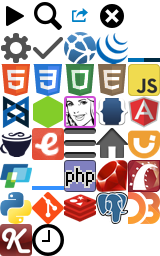
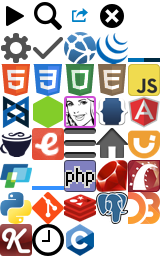
Add C documentation

Changed region(s): [[0.4062, 0.875, 0.5938, 1.0]]

diff --git a/assets/stylesheets/pages/_c.scss b/assets/stylesheets/pages/_c.scss
@@ -1,0 +1,22 @@
+._c {
+  > h2, > h3 { @extend %block-heading; }
+  > h4 { @extend %block-label, %label-blue; }
+  > p > code { @extend %label; }
+
+  .t-dcl-begin pre {
+    margin: 0;
+    padding: 0;
+    line-height: inherit;
+    background: none;
+    border: 0;
+    box-shadow: none;
+  }
+
+  .t-lines > span { display: block; } // numeric/fenv, string/byte, etc.
+
+  .t-spar { // language/switch, language/for, etc.
+    font-style: italic;
+    color: $textColorLight;
+  }
+  .t-sdsc-nopad dl, .t-sdsc-nopad dd { margin: 0; }
+}

diff --git a/assets/stylesheets/global/_icons.scss b/assets/stylesheets/global/_icons.scss
@@ -48,3 +48,4 @@
 ._icon-d3:before            { background-position: -4rem -6rem; }
 ._icon-knockout:before      { background-position: 0 -7rem; }
 ._icon-moment:before        { background-position: -1rem -7rem; }
+._icon-c:before             { background-position: -2rem -7rem; }

diff --git a/assets/stylesheets/application.css.scss b/assets/stylesheets/application.css.scss
@@ -28,6 +28,7 @@
         'components/mobile';
 
 @import 'pages/angular',
+        'pages/c',
         'pages/coffeescript',
         'pages/d3',
         'pages/ember',

diff --git a/lib/docs/filters/c/entries.rb b/lib/docs/filters/c/entries.rb
@@ -1,0 +1,44 @@
+module Docs
+  class C
+    class EntriesFilter < Docs::EntriesFilter
+      ADDITIONAL_NAMES = {
+        'Conditional inclusion' => %w(if else elif ifdef ifndef endif).map { |s| "##{s} directive" },
+        'Function specifiers' => ['inline specifier', '_Noreturn specifier'] }
+
+      REPLACE_NAMES = {
+        'Error directive' => '#error directive',
+        'Filename and line information' => '#line directive',
+        'Implementation defined behavior control' => '#pragma directive',
+        'Replacing text macros' => '#define directive',
+        'Source file inclusion' => '#include directive',
+        'Warning directive' => '#warning directive' }
+
+      def get_name
+        name = at_css('#firstHeading').content.strip
+        name.sub! 'C keywords: ', ''
+        name.sub! %r{\s\(.+\)}, ''
+        name = name.split(',').first
+        REPLACE_NAMES[name] || name
+      end
+
+      def get_type
+        if type = at_css('.t-navbar > div:nth-child(4) > :first-child').try(:content)
+          type.strip!
+          type.sub! ' library', ''
+          type.sub! ' utilities', ''
+          type
+        end
+      end
+
+      def additional_entries
+        names = at_css('#firstHeading').content.split(',')[1..-1]
+        names.concat ADDITIONAL_NAMES[name] || []
+        names.map { |name| [name] }
+      end
+
+      def include_default_entry?
+        at_css '.t-navbar > div:nth-child(4) > a'
+      end
+    end
+  end
+end

diff --git a/lib/docs/filters/c/clean_html.rb b/lib/docs/filters/c/clean_html.rb
@@ -1,0 +1,37 @@
+module Docs
+  class C
+    class CleanHtmlFilter < Filter
+      def call
+        if root_page?
+          doc.inner_html = ' '
+          return doc
+        end
+
+        css('#siteSub', '#contentSub', '.printfooter', '.t-navbar', '.editsection', '#toc', '.t-dsc-sep', '.t-dcl-sep',
+            '#catlinks', '.ambox-notice', '.mw-cite-backlink', '.t-sdsc-sep:first-child:last-child').remove
+
+        css('#bodyContent', '.mw-content-ltr', 'span[style]').each do |node|
+          node.before(node.children).remove
+        end
+
+        css('h2 > span[id]', 'h3 > span[id]', 'h4 > span[id]', 'h5 > span[id]', 'h6 > span[id]').each do |node|
+          node.parent['id'] = node['id']
+          node.before(node.children).remove
+        end
+
+        css('table[style]', 'th[style]', 'td[style]').remove_attr('style')
+
+        css('.t-dsc-hitem > td', '.t-dsc-header > td').each do |node|
+          node.name = 'th'
+          node.content = ' ' if node.content.empty?
+        end
+
+        css('tt').each do |node|
+          node.name = 'code'
+        end
+
+        doc
+      end
+    end
+  end
+end

diff --git a/lib/docs/scrapers/c.rb b/lib/docs/scrapers/c.rb
@@ -1,0 +1,22 @@
+module Docs
+  class C < FileScraper
+    self.type = 'c'
+    self.dir = '/Users/Thibaut/DevDocs/Docs/C/en/c'
+    self.base_url = 'http://en.cppreference.com/w/c/'
+    self.root_path = 'header.html'
+
+    html_filters.insert_before 'clean_html', 'c/fix_code'
+    html_filters.push 'c/entries', 'c/clean_html', 'title'
+    text_filters.push 'c/fix_urls'
+
+    options[:container] = '#content'
+    options[:title] = false
+    options[:root_title] = 'C Programming Language'
+    options[:skip] = %w(language/history.html)
+
+    options[:attribution] = <<-HTML
+      &copy; cppreference.com<br>
+      Licensed under the Creative Commons Attribution-ShareAlike Unported License v3.0.
+    HTML
+  end
+end

diff --git a/lib/docs/filters/c/fix_code.rb b/lib/docs/filters/c/fix_code.rb
@@ -1,0 +1,21 @@
+module Docs
+  class C
+    class FixCodeFilter < Filter
+      def call
+        css('div > span.source-c').each do |node|
+          node.inner_html = node.inner_html.gsub(/<br>\n?/, "\n").gsub("\n</p>\n", "</p>\n")
+          node.parent.name = 'pre'
+          node.parent['class'] = 'source-c'
+          node.parent.content = node.content
+        end
+
+        nbsp = Nokogiri::HTML('&nbsp;').text
+        css('pre').each do |node|
+          node.content = node.content.gsub(nbsp, ' ')
+        end
+
+        doc
+      end
+    end
+  end
+end

diff --git a/lib/docs/filters/c/fix_urls.rb b/lib/docs/filters/c/fix_urls.rb
@@ -1,0 +1,11 @@
+module Docs
+  class C
+    class FixUrlsFilter < Filter
+      def call
+        html.gsub! File.join(C.base_url, C.root_path), C.base_url[0..-2]
+        html.gsub! %r{#{C.base_url}([^"']+?)\.html}, "#{C.base_url}\\1"
+        html
+      end
+    end
+  end
+end
